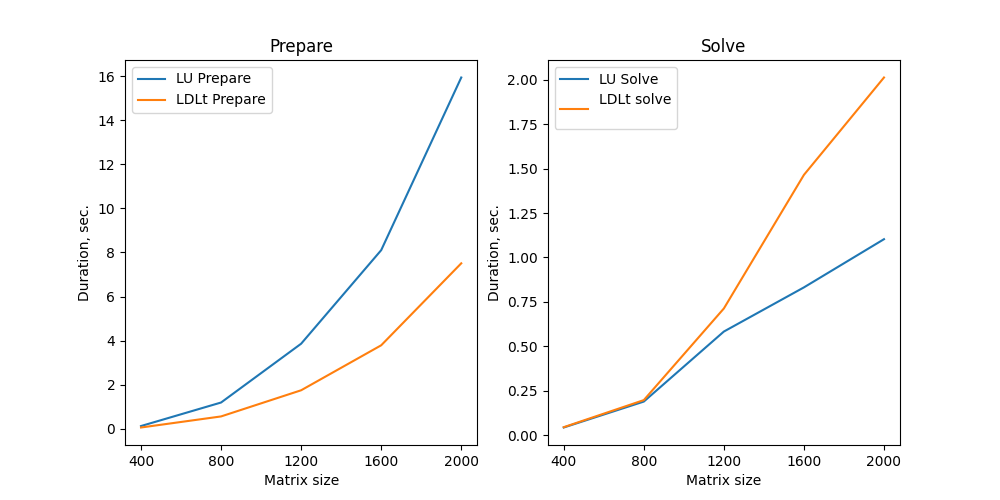
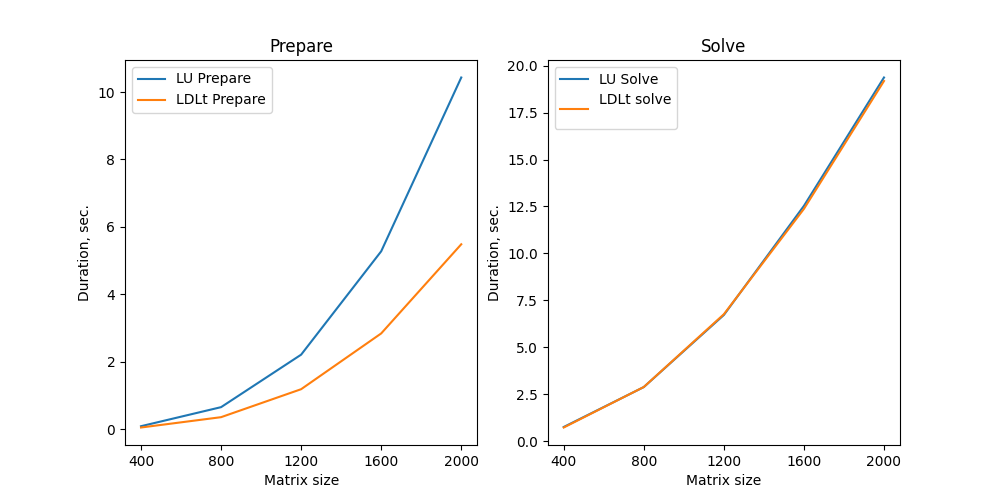
optimized ldlt solve

diff --git a/main.cpp b/main.cpp
@@ -43,9 +43,16 @@ std::vector<double> TestTask1Solvers(int n, int test_count, int seed) {
 
   Matrix<double> ldlt_l(n);
   Matrix<double> ldlt_d(n, 1);
+  Matrix<double> ldlt_l_transposed(n, 1);
   {
     TimeMeasurer time_measurer;
     algebra::GetLdlt(a, ldlt_l, ldlt_d);
+    ldlt_l_transposed = ldlt_l;
+    for (int i = 0; i < n; i++) {
+      for (int j = 0; j < i; j++) {
+        std::swap(ldlt_l_transposed.At(i, j), ldlt_l_transposed.At(j, i));
+      }
+    }
     std::cout << "Ldlt prepare: " << time_measurer.GetDurationString() << '\n';
     durations.push_back(time_measurer.GetDuration());
   }
@@ -53,7 +60,7 @@ std::vector<double> TestTask1Solvers(int n, int test_count, int seed) {
   for (int i = 0; i < n; i++) {
     ldlt_d_full.At(i, i) = ldlt_d.At(i, 0);
   }
-  // if (ldlt_l * ldlt_d_full * ldlt_l.Transposed() != a) {
+  // if (ldlt_l * ldlt_d_full * ldlt_l_transposed != a) {
   //   exit(229);
   // }
 
@@ -72,7 +79,7 @@ std::vector<double> TestTask1Solvers(int n, int test_count, int seed) {
     TimeMeasurer time_measurer;
     for (int test = 0; test < test_count; test++) {
       b.Randomize();
-      auto ldlt_x = algebra::LdltSolve(ldlt_l, ldlt_d, b);
+      auto ldlt_x = algebra::LdltSolve(ldlt_l, ldlt_d, ldlt_l_transposed, b);
     }
     std::cout << "Ldlt: " << time_measurer.GetDurationString() << '\n';
     durations.push_back(time_measurer.GetDuration());
@@ -120,7 +127,7 @@ void Task1(int solve_count = 1000) {
 
 int main() {
   srand(228);
-  Task1(100);
+  Task1(2000);
 
   // {
   //   Matrix<double> a{{0.593086, -0.633130, 0.193700},

diff --git a/Algebra/algebra.h b/Algebra/algebra.h
@@ -154,13 +154,14 @@ Matrix<T> LuSolve(const AbstractMatrix<T>& l,
 template<class T>
 Matrix<T> LdltSolve(const AbstractMatrix<T>& l,
                     const AbstractMatrix<T>& d,
+                    const AbstractMatrix<T>& l_t,
                     const AbstractMatrix<T>& b) {
   auto n = d.Rows();
   auto y = SolveLxb(l, b);
   for (int i = 0; i < n; i++) {
     y.At(i, 0) /= d.At(i, 0);
   }
-  return SolveUxb(l.Transposed(), y);
+  return SolveUxb(l_t, y);
 }
 
 template<class T>

diff --git a/Matrix/matrix.h b/Matrix/matrix.h
@@ -4,7 +4,7 @@
 #include <iomanip>
 #include "mutable_matrix.h"
 
-const double kEps = 1e-6;
+const double kEps = 1e-2;
 
 template<typename T>
 class Matrix : public MutableMatrix<T> {
